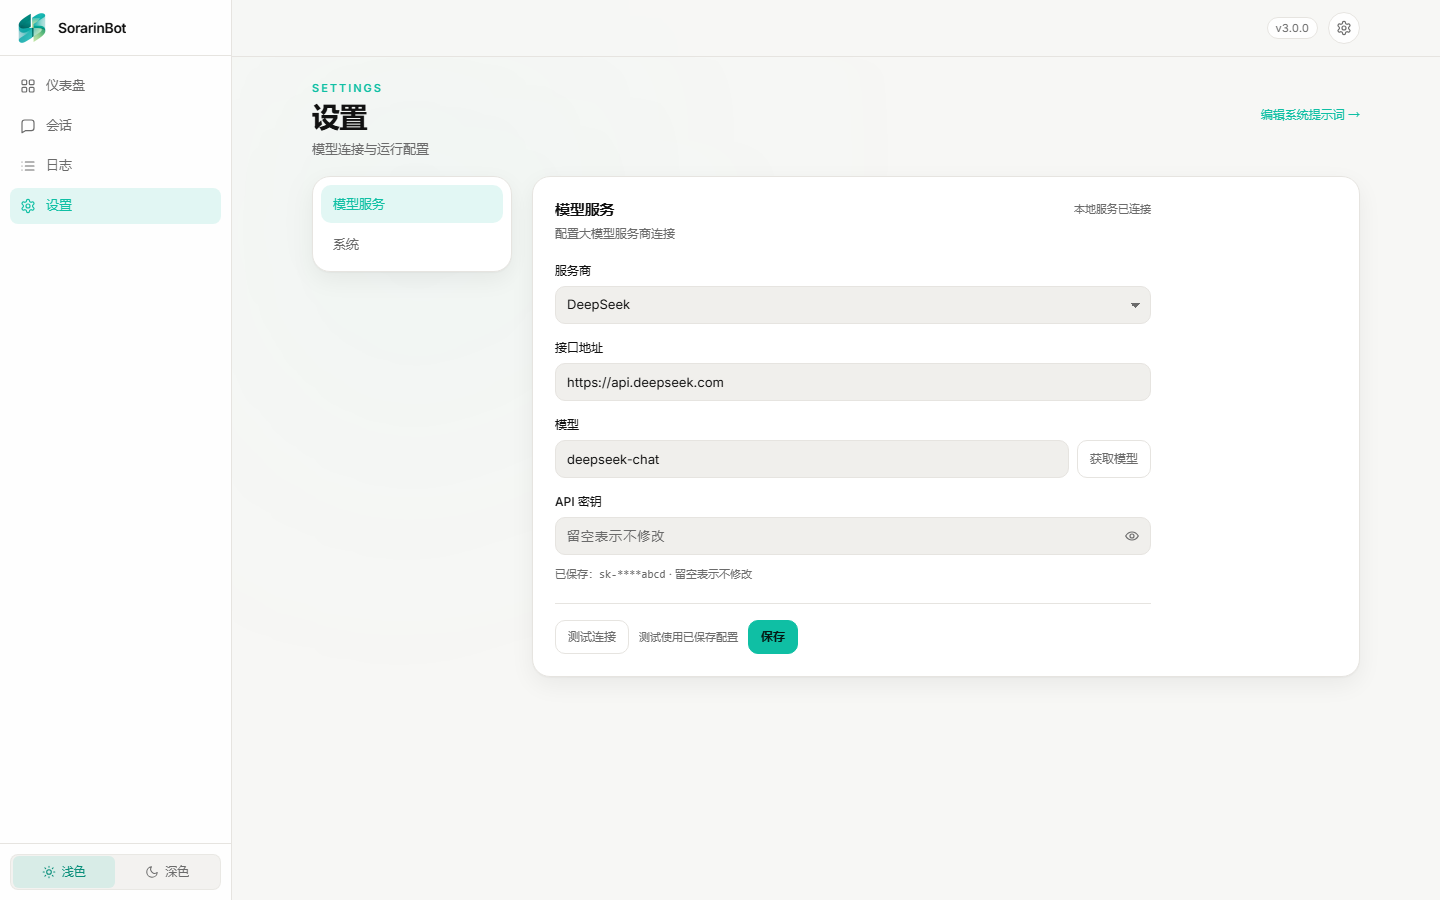
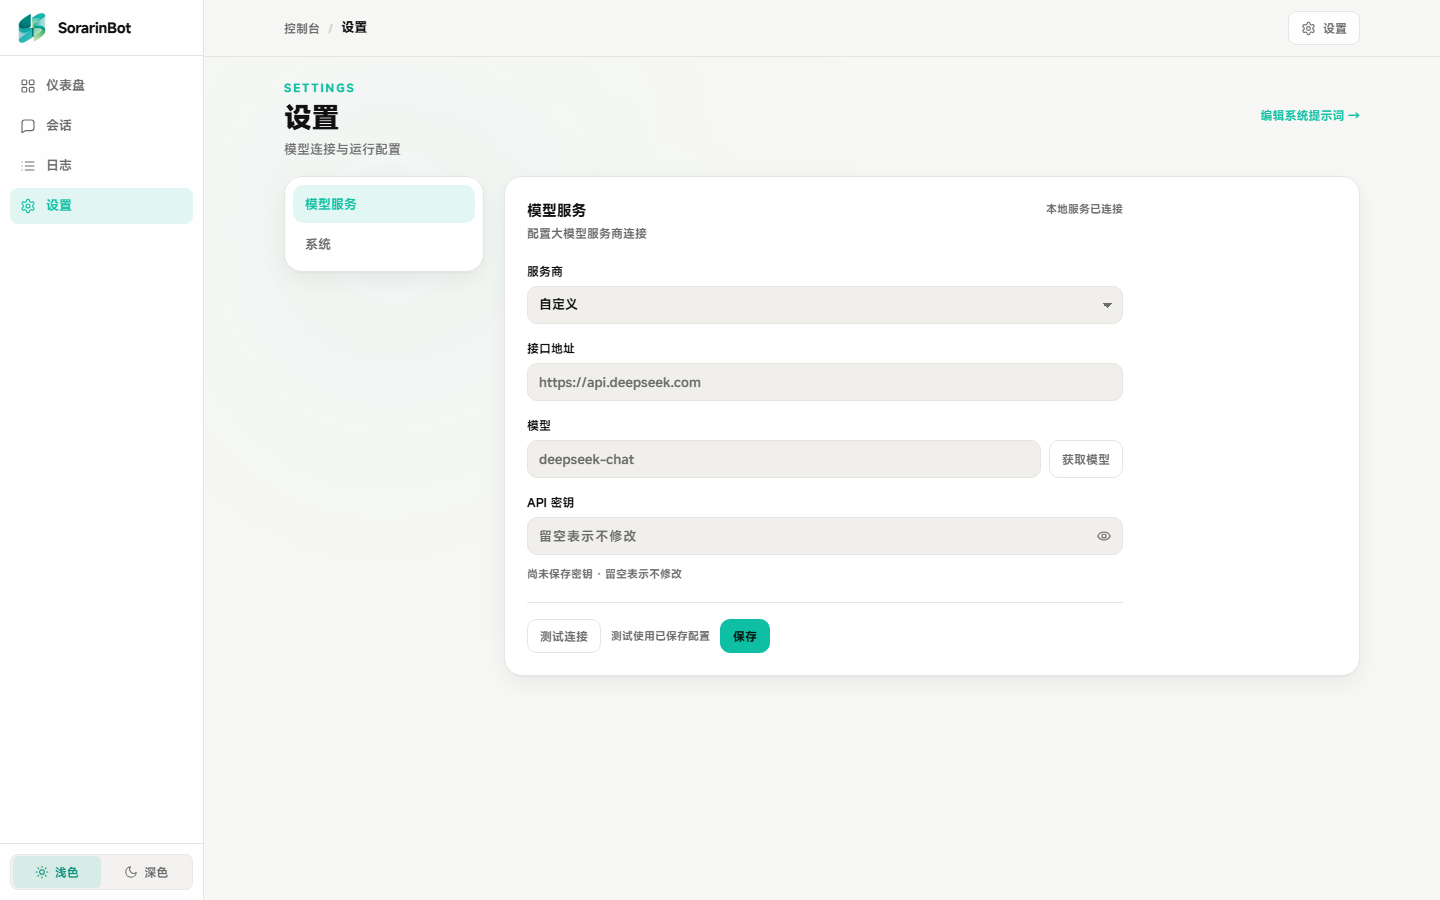
docs: audit readmes and refresh screenshots for 3.0.1

diff --git a/README.md b/README.md
@@ -32,7 +32,7 @@
 
 > 🔗 **[Live preview](https://sorarinx.github.io/SorarinBot/)** — click through the dashboard with simulated data, no install required.
 >
-> 🆕 **v3.0.1** ships the Windows installer: a Tauri bootstrapper with a real rounded window, a four-step progress flow, and a manifest-driven payload. [Release notes →](https://github.com/SorarinX/SorarinBot/releases/tag/v3.0.1)
+> 🆕 **v3.0.1** ships the Windows installer: a Tauri bootstrapper with a native Windows frame, a four-step progress flow, and a manifest-driven payload. [Release notes →](https://github.com/SorarinX/SorarinBot/releases/tag/v3.0.1)
 
 ## Download
 
@@ -86,7 +86,7 @@ Windows builds are submitted to the [SignPath Foundation](https://signpath.org/)
 <p align="center">
   <img src=".github/images/dashboard-light.png" width="880" alt="SorarinBot dashboard">
   <br>
-  <sub>The dashboard — provider status, live WeChat login state and per-conversation sessions.</sub>
+  <sub>The dashboard — provider status, WeChat login state and per-conversation sessions.</sub>
 </p>
 
 |                                         Chat history                                          |                                        System logs                                        |
@@ -97,14 +97,14 @@ Windows builds are submitted to the [SignPath Foundation](https://signpath.org/)
 |                                       Settings                                        |                                     System prompt                                      |
 | :----------------------------------------------------------------------------------: | :------------------------------------------------------------------------------------: |
 | ![Settings](.github/images/settings-light.png) | ![System prompt](.github/images/prompt-light.png) |
-| Provider presets, connection test and auto-start. | The system prompt that defines the bot's personality. |
+| Provider presets, connection test and saved API key. | The system prompt that defines the bot's personality. |
 
 ## 🚀 Quick Start
 
-> **Requirements** — Windows 10+ or Linux x64, roughly 25 MB of disk. Nothing else: the binary is statically linked, stores data with a pure-Go SQLite driver (no CGO), and carries the web UI inside it.
+> **Requirements** — Windows 10+ or Linux x64. The portable ZIP is about 10 MB; the desktop install downloads an ~85 MB payload and uses roughly 300 MB on disk. Nothing else: the binary is statically linked, stores data with a pure-Go SQLite driver (no CGO), and carries the web UI inside it.
 
 1. **Install or unzip.** Run `SorarinBot-Setup.exe` from [**Releases**](https://github.com/SorarinX/SorarinBot/releases) (recommended), or grab `SorarinBot-v*-win64-portable.zip` and extract it anywhere.
-2. **Run it.** Double-click `SorarinBot.exe`. A tray icon appears, the dashboard opens at `http://localhost:8080`, and the console window hides itself after a moment. If 8080 is busy, the next free port is used and the browser is pointed at it.
+2. **Start it.** The desktop installer opens the Electron window directly. The portable build starts `SorarinBot.exe`, adds a tray icon, opens `http://localhost:8080`, and hides its console after a moment. If 8080 is busy, the next free port is used and the browser is pointed at it.
 3. **Connect a model.** Open **Settings**, paste an API key, pick a model, and save — the change applies to the next message, no restart. No key yet? Use **先不扫码，去配置** on the welcome screen to explore the console first.
 4. **Log in to WeChat.** Scan the QR code on the welcome screen. On a headless machine, start with `-console-qr` to print the code in the terminal; `-console` keeps the console window visible. The status badge turns green once you are in.
 
@@ -123,7 +123,7 @@ No Linux package is published for v3.0.1. Build it from source with the commands
 
 v3.0.1 publishes `SorarinBot-Setup.exe`, a Tauri bootstrapper that downloads the versioned Electron payload, verifies its SHA-256, installs per user, and launches the app.
 
-> ⚠ The installer is **unsigned** for now, so Windows SmartScreen may show "Unknown publisher". Code signing is the next release task. The portable build above stays available.
+> ⚠ The installer and payload are **unsigned until SignPath Foundation approves the project**, so Windows SmartScreen may show "Unknown publisher". Portable remains available in the meantime.
 
 ### Build from source
 
@@ -231,7 +231,7 @@ Three ideas explain most of the design:
 | --- | --- |
 | Backend | Go 1.25 · `net/http` · `logrus` · `modernc.org/sqlite` (pure Go) |
 | Frontend | React 19 · Vite 7 · Tailwind CSS 4 · TypeScript |
-| Desktop | Electron 43 · electron-builder · Tauri 2 installer (unsigned as of v3.0.1) |
+| Desktop | Electron 33.4.11 · electron-builder · Tauri 2 installer (SignPath onboarding, unsigned until issued) |
 | Database | SQLite — `data.db`, chat history and system logs |
 | WeChat | [openwechat](https://github.com/eatmoreapple/openwechat) v1.4.10, vendored under `internal/` |
 | LLM | Any OpenAI-compatible HTTP API, via `providers/openaicompat` |
@@ -267,7 +267,7 @@ Every endpoint is served by the same binary as the dashboard. When `admin.passwo
 <details>
 <summary><b>Windows says "Windows protected your PC"</b></summary>
 
-The binary is not code-signed. Click **More info → Run anyway**. You can also verify the download against the release checksum.
+Portable and the current installer are not signed until SignPath Foundation issues the certificate. Click **More info → Run anyway**, and verify the download against the release checksum.
 </details>
 
 <details>

diff --git a/installer/README.md b/installer/README.md
@@ -27,7 +27,7 @@ Prerequisites: Node 20+, Rust stable (MSVC), WebView2 runtime.
 ```powershell
 cd installer/app
 npm install
-npm run tauri build -- --no-bundle
+npx tauri build --no-bundle
 ```
 
 Output: `installer/app/src-tauri/target/release/sorarinbot-installer.exe`.
@@ -80,12 +80,13 @@ Serve a manifest and the payload over localhost, then launch the bootstrapper wi
 
 ## Signing
 
-The build has signing hooks for `CSC_LINK` / `CSC_KEY_PASSWORD`; Tauri's Windows signing is not wired yet. Until a certificate exists, builds are unsigned and SmartScreen will warn. Do not call the public installer release done until the bootstrapper and payload are signed.
+The payload build still supports `CSC_LINK` / `CSC_KEY_PASSWORD` for a traditional PFX certificate. The project is applying to SignPath Foundation for free OSS signing; the staged SignPath flow is documented in `tools/signing/SIGNPATH.md`. Until that certificate is issued, the bootstrapper and payload are unsigned and SmartScreen will warn.
 
 ## Status
 
-- Bootstrapper UI: Welcome, Options, Progress, Finish; light/dark system theme; 1000×660 fixed window.
+- Bootstrapper UI: Welcome, Options, Progress, Finish; light/dark system theme; 1000×660 fixed window; native DWM frame.
 - Rust commands: manifest fetch, HTTPS download, SHA-256, silent payload, install.ok polling, launch, folder pickers, data import.
 - Payload: silent per-user install, config preserved, install.ok written.
 - Local E2E: passed (download → verify → silent install → finish) with a localhost manifest.
-- Not done: code signing, hosted manifest/release assets, electron-updater integration, WebView2 fallback UI.
+- Not done: code signing (SignPath application pending), electron-updater integration, WebView2 fallback UI.
+- Hosted manifest and release assets: done.
